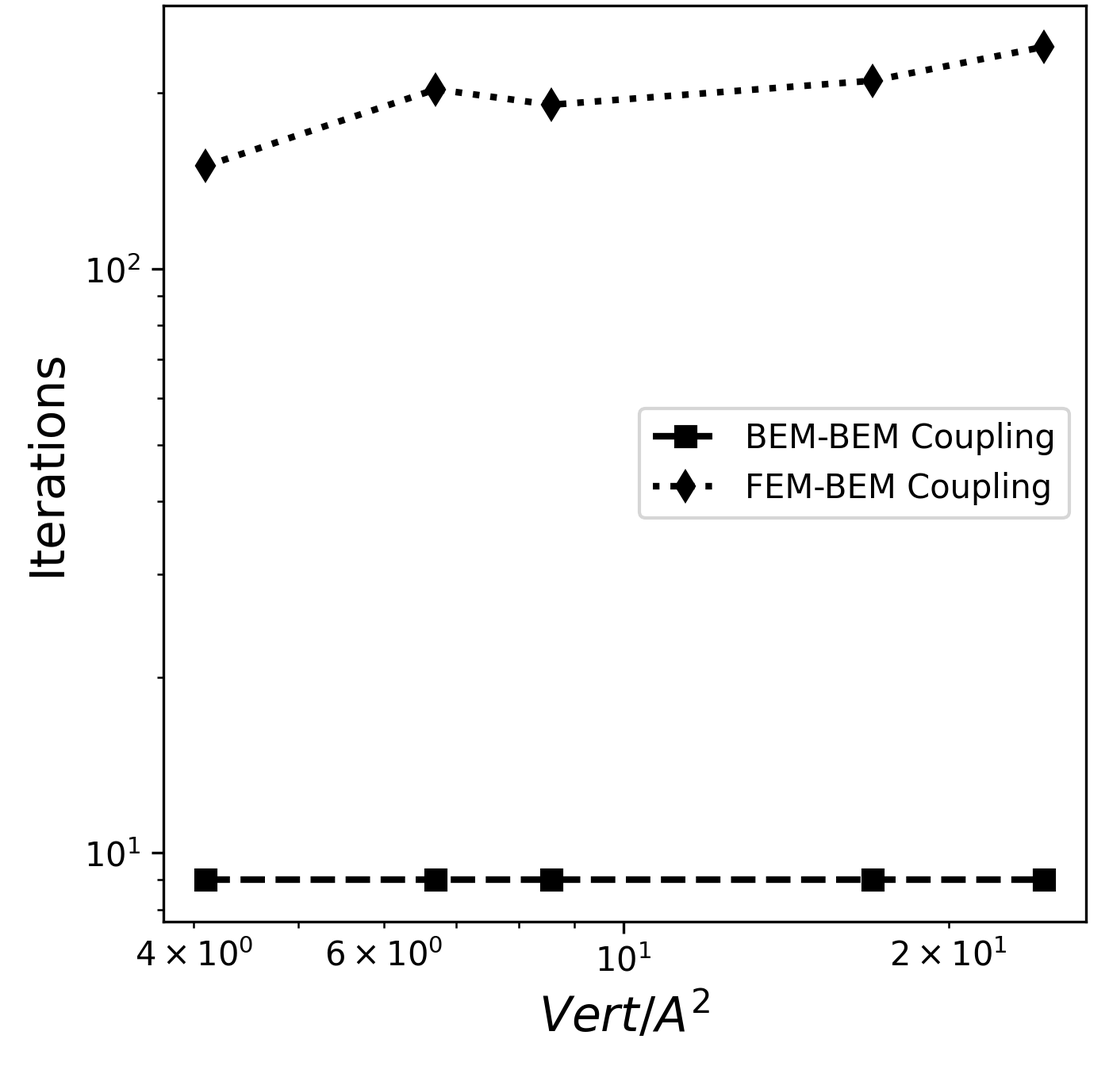
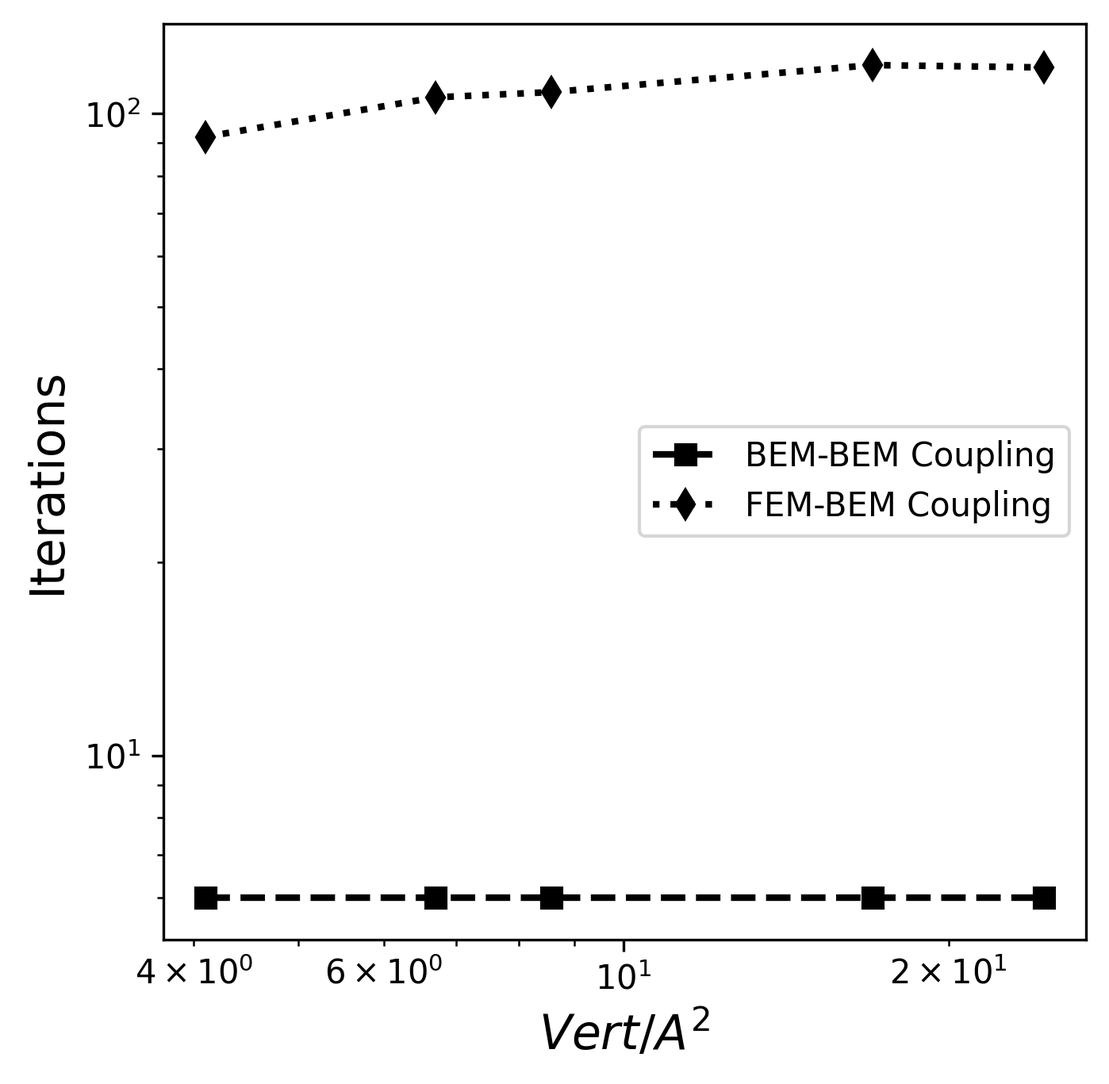
Updated Results with tol 1e-4

diff --git a/results.tex b/results.tex
@@ -12,7 +12,7 @@ It provides a convenient Python interface, describing problems using Unified For
 
 For very large grid sizes the user can enable fast multipole method (FMM) assembly which internally is handled in Bempp-cl through an interface to the Exafmm-t FMM library. For $N$ surface elements this reduces the memory and computational complexity from $\mathcal{O}(N^2)$ in the dense assembly case to $\mathcal{O}(N)$ in the FMM case, making large boundary element problems tractable on standard workstations.
 
-To couple FEniCSx with Bempp-cl we load a volume mesh with FEniCSx. We then export the corresponding boundary mesh into Bempp-cl and assemble the boundary spaces there. Bempp-cl provides numerical trace operators that can translate from the degree of freedom (dof) representation in FEniCSx to the dof representation in Bempp-cl. The corresponding translation work is handled opaquely and the user only needs to deal with high-level interfaces of FEniCSx operators, Bempp-cl operators, and trace operators. FMM assembly fits automatically into this framework and can be enabled or disabled as a simple configuration option.
+To couple FEniCSx with Bempp-cl we load a volume mesh with FEniCSx. We then export the corresponding boundary mesh into Bempp-cl and assemble the boundary spaces there. Bempp-cl provides numerical trace operators that can translate from the degree of freedom (DOF) representation in FEniCSx to the dof representation in Bempp-cl. The corresponding translation work is handled opaquely and the user only needs to deal with high-level interfaces of FEniCSx operators, Bempp-cl operators, and trace operators. FMM assembly fits automatically into this framework and can be enabled or disabled as a simple configuration option.
 
 Docker images containing FEniCSx, Bempp-cl, and Exafmm-t are publicly available (\href{https://bempp.com/installation.html}{https://bempp.com/installation.html}), and all codes used in this sections are simple Jupyter Notebooks that can be reproducibly executed in this provided Docker image.
 
@@ -20,7 +20,7 @@ Docker images containing FEniCSx, Bempp-cl, and Exafmm-t are publicly available 
 
 In implicit-solvent models, the molecule is usually considered as a region with constant permittivity, in this case, with $\epsilon_1=2$.
 In the solvent region, we used the permittivity of water ($\epsilon_2$=80) and an inverse of the Debye length of $\kappa=0.125$ \AA$^{-1}$.
-As in these cases there is an analytical solution for $\phi_c$ in Eq. \eqref{eq:phic}, we compute $\phi_r$ with Eq. \eqref{eq:phi_reac} in both BEM-BEM and FEM-BEM coupling approaches. Then, for FEM-BEM, the integral over $\Gamma$ in Eq. \eqref{eq:phi_reac} corresponds to the trace of the solution vector from Eq. \eqref{eq:fembem_matrix}.
+As in these cases, there is an analytical solution for $\phi_c$ in Eq. \eqref{eq:phic}, we compute $\phi_r$ with Eq. \eqref{eq:phi_reac} in both BEM-BEM and FEM-BEM coupling approaches. Then, for FEM-BEM, the integral over $\Gamma$ in Eq. \eqref{eq:phi_reac} corresponds to the trace of the solution vector from Eq. \eqref{eq:fembem_matrix}.
 
 \subsection*{\sffamily \large Convergence of a spherical cavity}
 
@@ -45,13 +45,13 @@ The error in Figure \ref{fig:error_sphere} decays linearly with the surface area
 \subsection*{\sffamily \large Performance with arginine}
 
 As a more realistic test, we assessed the performance of the FEM-BEM coupling technique against a purely BEM implementation for arginine.
-The structure of arginine taken from the protein data bank, and parameterized with the Amber\cite{ponder2003force} force field. 
+The structure of arginine was taken from the protein data bank, and parameterized with the Amber\cite{ponder2003force} force field. 
 We generated surface meshes containing 4.1, 6.7, 8.6, 17, and 24.5 vertices per \AA$^2$ with Nanoshaper.~\cite{decherchi2013general}
-These densities correspond to a grid scale parameter in Nanoshaper equal to 1.6, 2.0, 2.4, 3.4, and 4.0, respectively, where the grid scale is the reciprocal of the average characteristic length of the triangles.
+These densities correspond to a grid-scale parameter in Nanoshaper equal to 1.6, 2.0, 2.4, 3.4, and 4.0, respectively, where the grid scale is the reciprocal of the average characteristic length of the triangles.
 The surface meshes were inputs to our purely BEM solver and to create the FEM mesh with pyGAMer,~\cite{lee2020open} which invoked TetGen\cite{hang2015tetgen} with a quality parameter (radius-edge ratio) of 1.0.
 
-The solvation energy computed with the two schemes is presented by Figure \ref{fig:arg_constant_energy}, which, as expected, converges to a similar answer as the mesh is refined.
-Figure \ref{fig:arg2_constant_time_iter} compares the iteration count and time-to-solution. The left plot shows that using only BEM outperforms the coupled FEM-BEM approach in terms of iterations count. However, if we look at the total time that solvers take to obtain the solution, we can see the advantage of using the FEM-BEM coupling. The higher computational cost is caused by the need of using a hypersingular operator in the BEM formulation, and the fact that we are not using any acceleration method ($ie.$ FMM). Regardless, timings for FEM-BEM coupling scale much worse with size than its pure BEM counterpart, indicating that BEM-BEM coupling is better for larger problems. 
+The solvation energy computed with the two schemes is presented in Figure \ref{fig:arg_constant_energy}, which, as expected, converges to a similar answer as the mesh is refined.
+Figure \ref{fig:arg2_constant_time_iter} compares the iteration count and time-to-solution. The left plot shows that using only BEM outperforms the coupled FEM-BEM approach in terms of the iteration count. However, if we look at the total time that solvers take to obtain the solution, we can see the advantage of using the FEM-BEM coupling. The higher computational cost is caused by the need of using a hypersingular operator in the BEM formulation, and the fact that we are not using any acceleration method ($ie.$ FMM). Regardless, timings for the FEM-BEM coupling scale are much worse with size than its pure BEM counterpart, indicating that BEM-BEM coupling is better for larger problems. 
 %\textcolor{red}{Chris: I thought BEM-BEM outperformed FEM-BEM in total time. Am I wrong there?} \textcolor{blue}{Michal: Not for this formulation of BEM-BEM since we have hypersingular operator. But you can see that for denser meshes we should outperform it.} 
 
 
@@ -117,7 +117,7 @@ Figure \ref{fig:arg2_constant_time_iter} compares the iteration count and time-t
 
 \subsection*{\sffamily \large Motivation: modeling the solute with a Gaussian-based variable permittivity}
 
-In contrast to a purely BEM approach, FEM-BEM coupling gives flexibility to consider space-varying field parameters. 
+In contrast to a purely BEM approach, FEM-BEM coupling gives the flexibility to consider space-varying field parameters. 
 A popular description of the molecule is to consider a permittivity that varies like a Gaussian around each atom,\cite{grant2001smooth} which has shown enhanced accuracy in some applications, like pKa calculations.\cite{li2013dielectric}
 In this setting, we define a density function $\rho$ depending on position $r$ as
 %
@@ -142,7 +142,7 @@ Other implementations of Gaussian permittivities also modify the solute permitti
 We used Equation \eqref{eq:varying_eps} to generate dielectric maps, which we ran on APBS~\cite{BakerETal2001} for comparison. 
 We chose APBS because it provides an easy interface to control dielectric maps, in order to ensure their agreement with the maps imposed in our FEM-BEM coupled approach.
 
-Table \ref{table:arg_variable} shows a comparison of solvation energy computed with APBS and our FEM-BEM coupling approach. We can see that they are both converging to equivalent values, where the finest meshes agree up to 0.5\% (0.5 kcal/mol). The coarsest meshes used in both cases are within the recommended densities for accurate solvation energy simulations with constant permittivity. For example, a finite difference mesh with $h$=0.5 \AA~ or less is recommended for binding energy calculations\cite{sorensen2015comprehensive} (the result of substracting two solvation energies), and a similar study with BEM\cite{CooperBardhanBarba2014} showed that a mesh with 2 vertices per \AA$^2$ gives acceptable results when computing binding and solvation energies. We see a jump in the solvation energy for the FEM-BEM results going from 4.1 to 6.7 vertices per \AA$^2$, but later the energy monotonically decreases, converging to a solution. This is an indication that mesh requirements for variable permitivities may be tighter than with a constant permittivity, even though the jump in dielectric constant accross the molecular surface is usually smaller. 
+Table \ref{table:arg_variable} shows a comparison of solvation energy computed with APBS and our FEM-BEM coupling approach. We can see that they are both converging to equivalent values, where the finest meshes agree up to 0.5\% (0.5 kcal/mol). The coarsest meshes used in both cases are within the recommended densities for accurate solvation energy simulations with constant permittivity. For example, a finite difference mesh with $h$=0.5 \AA~ or less is recommended for binding energy calculations\cite{sorensen2015comprehensive} (the result of subtracting two solvation energies), and a similar study with BEM\cite{CooperBardhanBarba2014} showed that a mesh with 2 vertices per \AA$^2$ gives acceptable results when computing binding and solvation energies. We see a jump in the solvation energy for the FEM-BEM results going from 4.1 to 6.7 vertices per \AA$^2$, but later the energy monotonically decreases, converging to a solution. This is an indication that mesh requirements for variable permittivities may be tighter than with a constant permittivity, even though the jump in dielectric constant across the molecular surface is usually smaller. 
 
 %Figure \ref{fig:arg2_variable} contains the performance results of this test case, where we distinguish the iteration count from the calculation in dissolved and vacuum states. \textcolor{red}{Chris: if we don't include Fig. \ref{fig:arg2_variable}, we should remove this paragraph. I believe that if we show performance for fem-bem, a reviewer might be tempted to ask it for APBS too, which might be difficult.}  \textcolor{blue}{Michal: I completely agree. We were even talking about not putting them, but just for our information, we kept it for now. They weren't going to be in the final version}
 \begin{table}
@@ -161,11 +161,11 @@ Table \ref{table:arg_variable} shows a comparison of solvation energy computed w
 &vert/\AA$^2$   &  &  kcal/mol \\
 \hline
 %\multirow{5}{*}{Standard FEM-BEM}& 2 & -36.239\\
-    & 4.1 & 3 491 & -109.933 \\
-FEM-BEM    & 6.7  & 5 787 & -110.238 \\
-coupling    & 8.57  & 8 844 & -109.658 \\
-    & 17 & 19 911 & -109.368 \\
-    & 24.5 & 32 302 & -109.286 \\
+    & 4.1 & 3 491 & -109.907 \\
+FEM-BEM    & 6.7  & 5 787 & -110.199 \\
+coupling    & 8.57  & 8 844 & -109.582 \\
+    & 17 & 19 911 & -109.350 \\
+    & 24.5 & 32 302 & -109.265 \\
 \hline
 %\multirow{5}{*}{Standard FEM-BEM}& 2 & -29.554\\
 %    & 2 & -34.670\\
@@ -205,13 +205,13 @@ coupling    & 8.57  & 8 844 & -109.658 \\
 
 \subsection*{\sffamily \large Performance analysis for larger structures}
 
-So far, we have only tested the FEM-BEM coupled approach with small structures. Here, we study its behaviour with larger structures to evaluate its applicability in more realistic settings, and  in test cases where BEM-BEM coupling is not an alternative. Using the same Gaussian permittivity field inside the molecule, we computed the solvation free energy of protein G B1 (955 atoms, PDB code 1pgb), lysozyme (1960 atoms, PDB code 1lyz), the barnase-barstar complex (9464 atoms, PDB code 1x1u), and immunoglobulin G (20148 atoms, PDB code 1igt). All structures were parameterized with the Amber\cite{Swanson05} force field using pdb2pqr.\cite{Dolinsky04} The surface was meshed with Nanoshaper\cite{decherchi2013general} considering a grid scale of 1.5, and then used to mesh the solute region with pyGAMer\cite{lee2020open} and TetGen\cite{hang2015tetgen} with a radius-edge ratio of 1.0. Solvation free energy and timings for these runs are presented in Table \ref{table:large_variable}, showing that our FEM-BEM coupling method can reach medium-to-large sized proteins on a workstation. For these larger structures we enabled the FMM capabilities of Bempp-cl.
+So far, we have only tested the FEM-BEM coupled approach with small structures. Here, we study its behaviour with larger structures to evaluate its applicability in more realistic settings, and in test cases where BEM-BEM coupling is not an alternative. Using the same Gaussian permittivity field inside the molecule, we computed the solvation free energy of protein G B1 (955 atoms, PDB code 1pgb), lysozyme (1960 atoms, PDB code 1lyz), the barnase-barstar complex (9464 atoms, PDB code 1x1u), and immunoglobulin G (20148 atoms, PDB code 1igt). All structures were parameterized with the Amber\cite{Swanson05} force field using pdb2pqr.\cite{Dolinsky04} The surface was meshed with Nanoshaper\cite{decherchi2013general} considering a grid scale of 1.5, and then used to mesh the solute region with pyGAMer\cite{lee2020open} and TetGen\cite{hang2015tetgen} with a radius-edge ratio of 1.0. Solvation free energy and timings for these runs are presented in Table \ref{table:large_variable}, showing that our FEM-BEM coupling method can reach medium-to-large-sized proteins on a workstation. For these larger structures, we enabled the FMM capabilities of Bempp-cl.
 
-Table \ref{table:large_variable} shows that the iteration count increases with the problem size. This is expected for Johnson-N\'ed\'elec, which is the simplest coupling strategy. To isolate the effect of the increased iterations in the analysis, we separate timings in ``setup'' and ``solving'' time, where the ``setup'' time is independent of the number of iterations, and the ``solving'' time corresponds to the time spent in the GMRES solver. Then, the time-per-iteration in Table \ref{table:large_variable} only considers the ``solving'' time. Looking at the increase in degrees of freedom (DOFs), which grows equivalently for FEM and BEM, the ``setup'' time scales slightly worse than $\mathcal{O}(N^2)$, but represents the smalle fraction of the total time. On the other hand, the ``solving time per iteration'' scales closer to $\mathcal{O}(N)$, which is expected, as we are using a FMM for the BEM portion of the matrix. This is an indication that the high ``solving time'' is mainly due to the increase in iteration count, and having better conditioned coupling methods, such as the so-called hybrid approach,\cite{betcke2022hybrid} can have a large impact in the time to solution.
+Table \ref{table:large_variable} shows that the iteration count increases with the problem size. This is expected for Johnson-N\'ed\'elec, which is the simplest coupling strategy. To isolate the effect of the increased iterations in the analysis, we separate timings in ``setup'' and ``solving'' time, where the ``setup'' time is independent of the number of iterations, and the ``solving'' time corresponds to the time spent in the GMRES solver. Then, the time-per-iteration in Table \ref{table:large_variable} only considers the ``solving'' time. Looking at the increase in degrees of freedom (DOFs), which grows equivalently for FEM and BEM, the ``setup'' time scales slightly worse than $\mathcal{O}(N^2)$, but represents the smaller fraction of the total time. On the other hand, the ``solving time per iteration'' scales closer to $\mathcal{O}(N)$, which is expected, as we are using an FMM for the BEM portion of the matrix. This is an indication that the high ``solving time'' is mainly due to the increase in iteration count, and having better-conditioned coupling methods, such as the so-called hybrid approach,\cite{betcke2022hybrid} can have a large impact on the time to solution.
 
 Even though this scheme is capable of calculating the electrostatic potential in medium-to-large proteins, the largest test case in Table \ref{table:large_variable} (1igt) used up 30\% of the available RAM memory. 
 %(\textcolor{red}{check and rewrite \textcolor{blue}{we are using around 50\% of memory}}). 
-If we were aiming at larger structures, such as full viruses,\cite{MartinezETal2019,wang2021high} we would require to improve not only in the conditioning of the system, but also in the optimization of our fast algorithms\cite{wang2021exafmm,kailasa2023pyexafmm} and parallelization.
+If we were aiming at larger structures, such as full viruses,\cite{MartinezETal2019,wang2021high} we would require to improve not only in the conditioning of the system but also in the optimization of our fast algorithms\cite{wang2021exafmm,kailasa2023pyexafmm} and parallelization.
 
 \begin{table}
 \centering
@@ -219,14 +219,14 @@ If we were aiming at larger structures, such as full viruses,\cite{MartinezETal2
 Molecule & FEM  & BEM &  $\Delta G_{solv}$ & Iterations & Setup Time & Solving Time & Solv. time per & Total Time \\
 & DOFs & DOFs &  kcal/mol & & [sec] & [sec] & iter. [sec] & [sec] \\
 \hline
- 1pgb  & 29 434 &  10 058 &  -300.888 & 826 & 82 & 547 & 0.6 & 6 629  \\
- 1lyz  & 56 114 & 18 606 &  -599.642 & 1 285 & 330 & 1 640  & 1.2 & 1 970  \\
+ 1pgb  & 29 434 &  10 058 &  -300.389 & 613 & 89 & 410 & 0.67 & 702  \\
+ 1lyz  & 56 114 & 18 606 &  -597.515 & 724 & 334 & 921  & 1.27 & 1 255   \\
  %1lyz gs3 & 257 391 & 75 048 &  -600.637 & 2 949  & 1 690 & 10 900 & 3.6 & 12 590   \\
- 1x1u & 263 181 & 81 258 &  -1 984.468 & 4 167 & 8 240 & 16 300 & 3.91 & 24 540  \\
- 1igt & 597 575 & 187 712 &   -3 294.230 & 8 361 & 41 200 & 64 200 & 7.67  &  105 400   \\
+ 1x1u & 263 181 & 81 258 &  -1 975.068 & 1 911 & 8 240 & 7 410 & 3.88 & 15 650  \\
+ 1igt & 597 575 & 187 712 &   -3 279.907 & 1 974 & 40 930 & 15 600 & 7.9  &  56 530   \\
  \hline
 \end{tabular}}
-\caption{Results for larger structures with a variable permitivitty.}
+\caption{Results for larger structures with a variable permittivity.}
 \label{table:large_variable}
 \end{table}
 %

diff --git a/methods.tex b/methods.tex
@@ -27,9 +27,9 @@ The electrostatic potential in $\Omega_1$ can be further decomposed into singula
 Physically, $\phi_c$ can be interpreted as the Coulomb-type potential from the point charges, whereas $\phi_r$, also known as reaction potential, is originated by the polarization of the solvent and reorganization of the free ions. 
 Usually, $\epsilon_1$ is considered a constant value, yielding an analytical expression for $\phi_c$, however, this is not the general case.
 
-Regularized versions of Equation \eqref{eq:pbe} \cite{LuZhouHolstMcCammon2008,LeeGengZhao2021} are widely used to numerically solve the Poisson-Boltzmann equation with finite element or finite difference methods, and have recently been extended to super-Gaussian permitivitties in the solute.\cite{wang2022regularization} However, here we use the standard formulation in Equation \eqref{eq:pbe}, as it offers more flexibility when dealing with, for example, variable permitivitties, beyond super-Gaussian descriptions.
+Regularized versions of Equation \eqref{eq:pbe} \cite{LuZhouHolstMcCammon2008,LeeGengZhao2021} are widely used to numerically solve the Poisson-Boltzmann equation with finite element or finite difference methods, and have recently been extended to super-Gaussian permittivities in the solute.\cite{wang2022regularization} However, here we use the standard formulation in Equation \eqref{eq:pbe}, as it offers more flexibility when dealing with, for example, variable permittivities, beyond super-Gaussian descriptions.
 
-A common quantity of interest in implicit solvent models is the solvation free energy, which the change in Gibbs free energy as the molecule moves from vacuum into the solvent. Considering the charge distribution $\rho$ consists of point charges, this can be calculated as
+A common quantity of interest in implicit solvent models is the solvation free energy, which is the change in Gibbs free energy as the molecule moves from the vacuum into the solvent. Considering the charge distribution $\rho$ consists of point charges, this can be calculated as
 %
 \begin{equation}\label{eq:dG} 
 \Delta G_{solv} = \tfrac{1}{2}\int_{\Omega_1} \rho(\mathbf{x})\phi_{r}(\mathbf{x}) = \tfrac{1}{2}\sum_{k=1}^{N_q} q_k\phi_r(\mathbf{x_k})
@@ -37,7 +37,7 @@ A common quantity of interest in implicit solvent models is the solvation free e
 
 \subsection*{\sffamily \large BEM-BEM coupling}
 
-Several possible boundary integral formulations of Equation \eqref{eq:pbe} exist.~\cite{search2022towards} The simplest form was presented by Yoon ºand Lenhoff in 1991,~\cite{YoonLenhoff1990} known as the \emph{direct} formulation, however, the resulting system is usually ill-conditioned. Here, we use the better-conditioned formulation presented by Lu and co-workers,~\cite{LuETal2006,LuETal2009,debuhr2016dashmm} which reads
+Several possible boundary integral formulations of Equation \eqref{eq:pbe} exist.~\cite{search2022towards} The simplest form was presented by Yoon and Lenhoff in 1991,~\cite{YoonLenhoff1990} known as the \emph{direct} formulation, however, the resulting system is usually ill-conditioned. Here, we use the better-conditioned formulation presented by Lu and co-workers,~\cite{LuETal2006,LuETal2009,debuhr2016dashmm} which reads
 %
 \begin{align}\label{eq:lu}
     & \tfrac{\phi_2}{2}\left(1+\tfrac{\epsilon_1}{\epsilon_2}\right) - \left(K_Y^\Gamma - \tfrac{\epsilon_1}{\epsilon_2}K_L^\Gamma\right)\phi_2 + \left(V_Y^\Gamma - V_L^\Gamma\right)\lambda_2 = \sum_{k=0}^{N_q}  \frac{q_k}{4\pi\epsilon_2|\mathbf{x}_{\Gamma} - \mathbf{x}_k|}
@@ -166,7 +166,7 @@ Having computed the electrostatic potential with Eq. \eqref{eq:lu}, we obtain th
 \phi_{r}(\mathbf{r}) = - K_{L}^{\mathbf{r}} \phi_1 + V_{L}^{\mathbf{r}}  \lambda_1  ,
 \end{align}
 %
-where $\mathbf{r}\in\Omega_1$, and we can obtain $\phi_1$ and $\lambda_1$ from $\phi_2$ and $\lambda_2$ by applying the interface condicions from Eq. \eqref{eq:pbe}.
+where $\mathbf{r}\in\Omega_1$, and we can obtain $\phi_1$ and $\lambda_1$ from $\phi_2$ and $\lambda_2$ by applying the interface conditions from Eq. \eqref{eq:pbe}.
 This is valid as long as $\epsilon_1$ is a constant. We use Eq.~\eqref{eq:phi_reac} for both BEM-BEM and FEM-BEM coupling simulations with constant $\epsilon_1$.
 
 
@@ -183,9 +183,9 @@ The boundary element method (BEM) is a standard tool for the numerical solution 
 \phi_1(\mathbf{x})  = \phi_2(\mathbf{x}),  &\quad \epsilon_1(\mathbf{x})\frac{\partial\phi_1}{\partial\mathbf{n}}(\mathbf{x})  = \epsilon_2(\mathbf{x})\frac{\partial\phi_2}{\partial\mathbf{n}}(\mathbf{x})  \quad \mathbf{x}\in \Gamma. 
 \end{align}
 %
-A finite element method (FEM) is more suitable for such case.
+A finite element method (FEM) is more suitable for such a case.
 
-The coupling of finite element (FEM) and boundary element (BEM) methods is a widely used approach to solve multi-physical problems on unbounded domains [citation?], as it takes advantage of both methods. On one hand, the BEM satifies the infinite boundary conditions exactly when they decay to zero, and only approximates boundary conditions on surfaces, hence, it is commonly used for problems involving infinite or semi-infinite domains. On the other hand, the FEM is known for its robustness and universal applicability, even for problems of inhomogeneous or non-linear nature.
+The coupling of finite element (FEM) and boundary element (BEM) methods is a widely used approach to solve multi-physical problems on unbounded domains [citation?], as it takes advantage of both methods. On one hand, the BEM satisfies the infinite boundary conditions exactly when they decay to zero, and only approximates boundary conditions on surfaces, hence, it is commonly used for problems involving infinite or semi-infinite domains. On the other hand, the FEM is known for its robustness and universal applicability, even for problems of inhomogeneous or non-linear nature.
 Here, we used the Johnson-N\'ed\'elec formulation,\cite{johnson1980coupling} which is the simplest form of FEM-BEM coupling, and we detail it next.
 
    We start with the variational formulation of the internal problem. Applying integration by parts for first equation of~\eqref{eq:pbe_vp} for every $v \in H_0^1(\Omega_1)$, we have

diff --git a/intro.tex b/intro.tex
@@ -1,24 +1,24 @@
-In biologically relevant settings, the structure and function of biomolecules is largely determined by the surrounding water, which usually contains salt. 
+In biologically relevant settings, the structure and function of biomolecules are largely determined by the surrounding water, which usually contains salt. 
 To describe these systems accurately, we need to account for the solvent correctly, which has given rise to a wide range of models.\cite{onufriev2018water}
 Highly detailed models consider every water molecule and salt ion explicitly, however, there are approximated models that use continuum theory to represent this ionic solution, known as implicit-solvent models.\cite{RouxSimonson1999,DecherchiETal2015}
 In the case of electrostatics, the implicit-solvent model is mathematically characterized by the Poisson-Boltzmann equation (PBE)\cite{Baker2004,Bardhan2012}, which is widely used to compute solvation free energies and mean-field potentials.
 
-The implicit-solvent model for electrostatics describes the dissolved molecule as a infinite medium with a low-dielectric solute-shaped cavity, which contains a charge distribution from the partial charges --- usually a sum of Dirac deltas at the atom's locations.
+The implicit-solvent model for electrostatics describes the dissolved molecule as an infinite medium with a low-dielectric solute-shaped cavity, which contains a charge distribution from the partial charges --- usually a sum of Dirac deltas at the atom's locations.
 The outer solvent region is represented with a high dielectric, and considers the presence of salt.
 These two regions are interfaced by the molecular surface, which can be defined in various ways \cite{HarrisBoschitcshFenley2013}, where the continuity of the electrostatic potential and electric displacement are enforced.
 
 The PBE has been solved numerically with finite difference\cite{BakerETal2001,GilsonETal1985,JurrusETal2018,LiETal2019}, finite element\cite{HolstETal2012,BondEtal2010}, boundary element\cite{boschitsch2002fast,LuETal2006,AltmanBardhanWhiteTidor09,bajaj2011efficient,GengKrasny2013,CooperBardhanBarba2014}, and analytical\cite{YapHeadgordon2010,FelbergETal2017} methods.
-In particular, the boundary element method (BEM) has proven to be very efficient for high accuracy calculations \cite{GengKrasny2013,CooperBardhanBarba2014}, mainly due to the precise description of the molecular surface and point charges. 
-However, BEM is limited to constant material properties in each region, and the linear version of the PBE. 
+In particular, the boundary element method (BEM) has proven to be very efficient for high-accuracy calculations \cite{GengKrasny2013,CooperBardhanBarba2014}, mainly due to the precise description of the molecular surface and point charges. 
+However, BEM is limited to constant material properties in each region and the linear version of the PBE. 
 Even though these limitations are acceptable in a wide range of applications, there are cases when BEM falls short, for example, if a variable permittivity is required inside the solute \cite{grant2001smooth,li2013dielectric}, or the solute is highly charged such that the linear approximation breaks\cite{FogolariETal1999}.
 
 The present article describes a methodology to overcome some of those limitations, by coupling finite and boundary elements methods.
-This approach brings the best of both worlds: the flexibility of FEM and efficiency of BEM, all in an accurate description of the solute molecule.
+This approach brings the best of both worlds: the flexibility of FEM and the efficiency of BEM, all in an accurate description of the solute molecule.
 FEM-BEM coupling is a popular technique in the context of mixed linear-nonlinear models,\cite{carstensen1995coupling,aurada2013classical} fracture mechanics,\cite{aour2007coupled} fluid-structure interaction,\cite{estorff1991fem} acoustics,\cite{hiptmair2006stabilized} and electromagnetics.\cite{matsuoka1988calculation,hiptmair2008stabilized,bruckner20123d}
 On the other hand, the PBE has been solved with hybrid numerical methods in the past, for example, by coupling finite difference with boundary elements\cite{boschitsch2004hybrid} or finite elements,\cite{xie2016new,ying2018hybrid} which were mainly used to solve the nonlinear PBE in a specific region, and to implement modifications to the PBE model ({\it ie.} the size-modified PBE).
 To the best of our knowledge, this is the first time finite and boundary elements are combined in this application.
 
 Here we prototype this principle with the simplest implementation possible: a Johnson-N\'ed\'elec\cite{johnson1980coupling} coupling, mass-matrix and diagonal preconditioning, and no distributed memory execution. 
 This limits the size of problems we can access currently, however, it sets the basis for future developments that use more elaborate formulations and algorithms that are readily available in the software libraries used in this work, in particular, Bempp-cl and FEniCSx.
-These libraries are designed for ease-of-use through a simple Python interface, making them ideal tools to explore and improve computational efficiency, towards tackling large-scale problems, such as a full viral capsid.\cite{MartinezETal2019,wang2021high}
+These libraries are designed for ease of use through a simple Python interface, making them ideal tools to explore and improve computational efficiency, towards tackling large-scale problems, such as a full viral capsid.\cite{MartinezETal2019,wang2021high}
 We hope this work will inspire research along these lines.

diff --git a/main.tex b/main.tex
@@ -36,7 +36,7 @@
 
 
 \begin{abstract}
-The Poisson-Boltzmann equation is widely used to model electrostatics in molecular systems. Available software packages solve it using finite difference, finite element, and boundary element methods, where the latter is attractive due to the accurate representation of the molecular surface and partial charges, and exact enforcement of the boundary conditions at infinity. However, the boundary element method is limited to linear equations and piece-wise constant variations of the material properties. In this work, we present a scheme that couples finite and boundary elements for the Poisson-Boltzmann equation, where the finite element method is applied in a confined {\it solute} region, and the boundary element method in the external {\it solvent} region. As a proof-of-concept exercise, we used the simplest methods available: Johnson-N\'ed\'elec coupling with mass matrix and diagonal preconditioning, implemented in the Bempp-cl and FEniCSx libraries from a simple Python interface. We showcased our implementation by computing the polar component of the solvation free energy of a set of molecules using a constant and a Gaussian-varying permittivity. First, we validated our implementation against the finite differece code APBS (to 0.5\%), and then, we show scaling from protein G B1 (955 atoms) up to immunoglobuling G (20 148 atoms). For small problems we saw that the coupled method was efficient, outperforming a purely boundary integral approach, but scaled worse with size. For Gaussian-varying permittivities, which are beyond the applicability of boundary elements, we were able to run medium to large problems on a single workstation. However, our results illustrate the need to improve conditioning and incorporate distributed memory parallelism as we aim at larger systems. We hope this work will serve as inspiration for future developments that consider space-varying field parameters, and mixed linear-nonlinear schemes for molecular electrostatics with implicit solvent models. 
+The Poisson-Boltzmann equation is widely used to model electrostatics in molecular systems. Available software packages solve it using finite difference, finite element, and boundary element methods, where the latter is attractive due to the accurate representation of the molecular surface and partial charges, and exact enforcement of the boundary conditions at infinity. However, the boundary element method is limited to linear equations and piece-wise constant variations of the material properties. In this work, we present a scheme that couples finite and boundary elements for the Poisson-Boltzmann equation, where the finite element method is applied in a confined {\it solute} region, and the boundary element method in the external {\it solvent} region. As a proof-of-concept exercise, we used the simplest methods available: Johnson-N\'ed\'elec coupling with mass matrix and diagonal preconditioning, implemented in the Bempp-cl and FEniCSx libraries from a simple Python interface. We showcased our implementation by computing the polar component of the solvation free energy of a set of molecules using a constant and a Gaussian-varying permittivity. First, we validated our implementation against the finite difference code APBS (to 0.5\%), and then, we show scaling from protein G B1 (955 atoms) up to immunoglobulin G (20 148 atoms). For small problems we saw that the coupled method was efficient, outperforming a purely boundary integral approach, but scaled worse with size. For Gaussian-varying permittivities, which are beyond the applicability of boundary elements, we were able to run medium to large problems on a single workstation. However, our results illustrate the need to improve conditioning and incorporate distributed memory parallelism as we aim at larger systems. We hope this work will serve as inspiration for future developments that consider space-varying field parameters, and mixed linear-nonlinear schemes for molecular electrostatics with implicit solvent models. 
 \end{abstract}
 
 \begin{wileykeywords}

diff --git a/conclusion.tex b/conclusion.tex
@@ -1,1 +1,1 @@
-This paper presents the first implementation of a FEM-BEM coupling approach to solve the Poisson-Boltzmann equation for molecular electrostatics. This brings the best of both worlds: the accuracy and efficiency of BEM to exactly enforce the boundary conditions at infinity, and the flexibility of FEM to account for space variations of the material properties and nonlinearities. After presenting verification results for a sphere and arginine with a constant permittivity inside the solute, we showcased our implementation with an advanced modeling technique that considers a Gaussian-varying permittivities in a confined region, comparing with the widely-used APBS software. The final scaling results for larger molecules start from protein G B1 (955 atoms) and go up to immunoglobulin G (20 148 atoms), proving the applicability of this approach for realistic problems. Even though our implementation was able to reach medium-to-large systems, we recongnize the need of further research towards opmtimizing the coupling technique, acceleration algorithms, and parallel execution, specially as we look towards much larger solutes, like viruses. We hope this proof-of-concept work will serve as motivation for future model development that considers space varying permittivities and Debye lengths, and mixed linear-nonlinear techniques, specially for highly-charged systems, like nucleic acids. 
+This paper presents the first implementation of a FEM-BEM coupling approach to solve the Poisson-Boltzmann equation for molecular electrostatics. This brings the best of both worlds: the accuracy and efficiency of BEM to exactly enforce the boundary conditions at infinity, and the flexibility of FEM to account for space variations of the material properties and nonlinearities. After presenting verification results for a sphere and arginine with a constant permittivity inside the solute, we showcased our implementation with an advanced modeling technique that considers Gaussian-varying permittivities in a confined region, compared with the widely-used APBS software. The final scaling results for larger molecules start from protein G B1 (955 atoms) and go up to immunoglobulin G (20 148 atoms), proving the applicability of this approach for realistic problems. Even though our implementation was able to reach medium-to-large systems, we recongnize the need for further research towards optimizing the coupling technique, acceleration algorithms, and parallel execution, especially as we look towards much larger solutes, like viruses. We hope this proof-of-concept work will serve as motivation for future model development that considers space-varying permittivities and Debye lengths, and mixed linear-nonlinear techniques, especially for highly-charged systems, like nucleic acids. 
